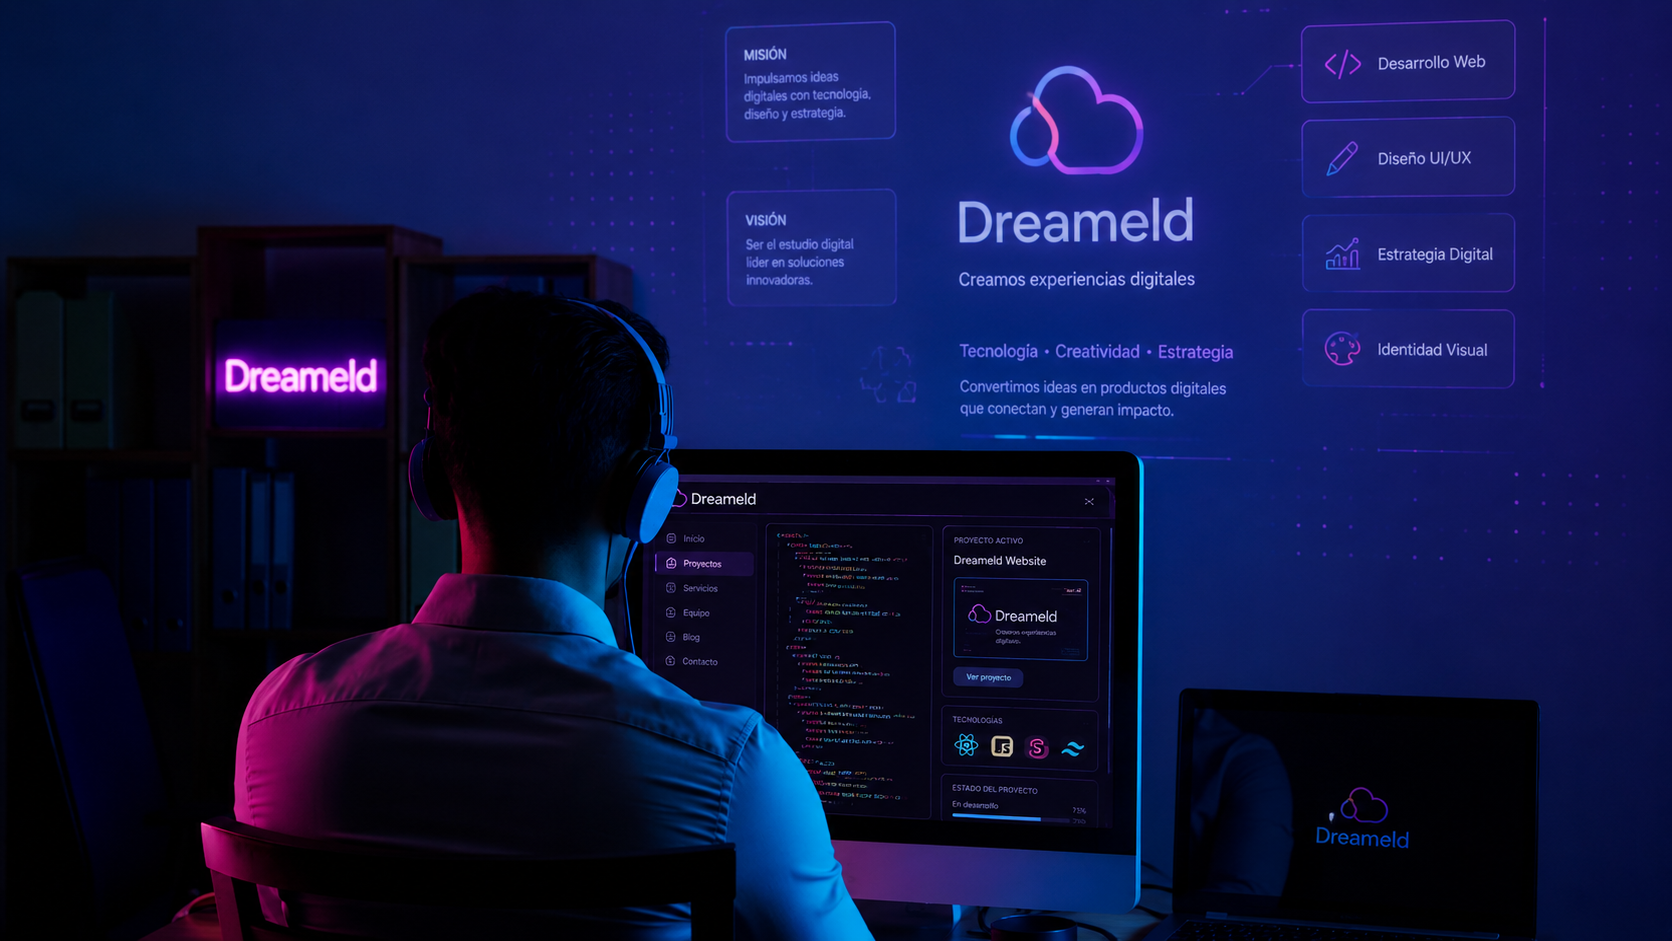
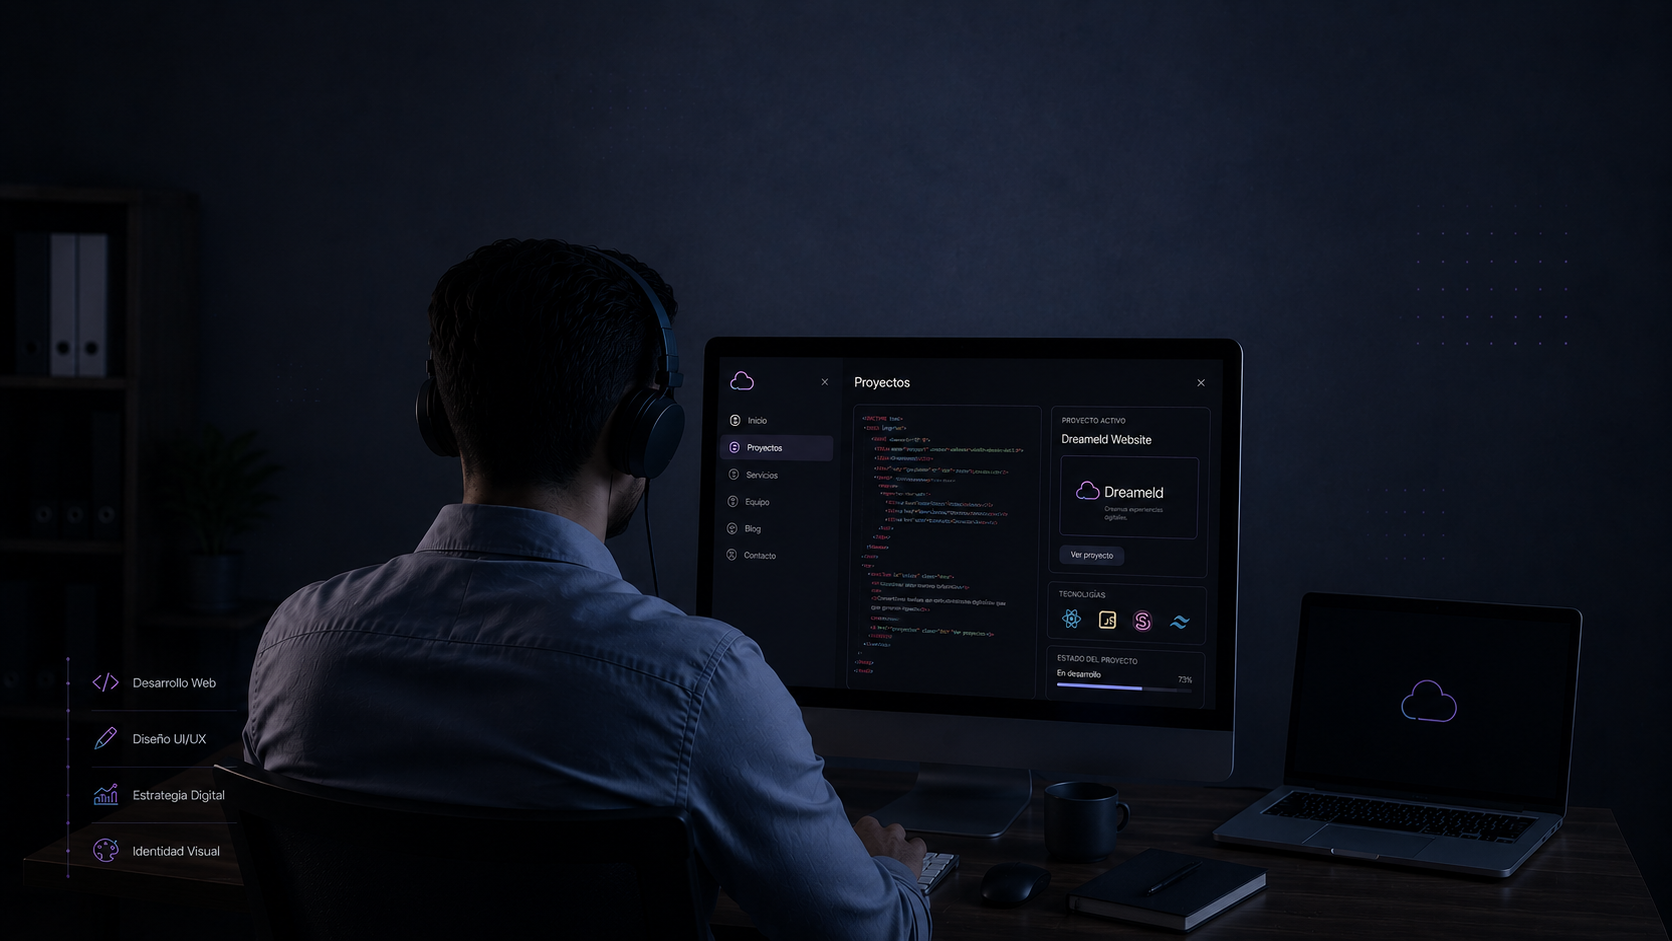
Sección nosotros terminada

diff --git a/src/pages/aboutus.js b/src/pages/aboutus.js
@@ -9,6 +9,7 @@ import Newsletter from "../components/newslatter";
 import Footer from "../components/footer";
 import Switcher from "../components/switcher";
 import Metricas from "../components/Metricas"; // 
+import { FiZap, FiShield, FiMessageSquare, FiRefreshCw } from 'react-icons/fi';
 
 import { serviceData, pilaresData, teamData } from "../data/data";
 import { AiOutlineCheckCircle, MdMailOutline, FiHexagon, FiFacebook, FiInstagram, FiLinkedin, AiOutlineQuestionCircle } from '../assets/icons/vander'
@@ -144,7 +145,7 @@ export default function AboutUs() {
                                         }}
                                     >
                                         <MdMailOutline className="me-2 text-white" />
-                                        Habla con un Ingeniero
+                                        Platica con un experto
                                     </Link>
                                 </div>
                             </div>
@@ -188,6 +189,7 @@ export default function AboutUs() {
     })}
 </div>
 </div>
+{/* Sección del mapa documentado
             <WorldMap />
             
 <div className="container relative md:mt-24 mt-16 mx-auto">
@@ -210,8 +212,95 @@ export default function AboutUs() {
         </div>
     </div>
 </div>
+*/}
+    <div className="py-12 my-10">
+    <div className="grid md:grid-cols-4 sm:grid-cols-2 grid-cols-1 gap-8 max-w-6xl mx-auto px-4">
+        
+        {/* Bloque 1: Uptime */}
+        <div 
+            className="text-center flex flex-col items-center p-6 rounded-xl transition-all duration-300"
+            style={{ transform: 'translateY(0px)', boxShadow: 'none' }}
+            onMouseEnter={(e) => {
+                e.currentTarget.style.transform = 'translateY(-8px)';
+                e.currentTarget.style.boxShadow = '0 10px 25px -5px rgba(0, 0, 0, 0.05)';
+            }}
+            onMouseLeave={(e) => {
+                e.currentTarget.style.transform = 'translateY(0px)';
+                e.currentTarget.style.boxShadow = 'none';
+            }}
+        >
+            <div className="mb-4 rounded-full flex items-center justify-center bg-indigo-50/70" style={{ width: '70px', height: '70px' }}>
+                <FiZap className="text-4xl" style={{ color: '#510bf7' }} />
+            </div>
+            <h3 className="text-3xl font-bold mb-1" style={{ color: '#16082c' }}>99.99%</h3>
+            <p className="text-slate-500 font-medium text-sm">Uptime Garantizado</p>
+        </div>
+
+        {/* Bloque 2: Seguridad (SSL) */}
+        <div 
+            className="text-center flex flex-col items-center p-6 rounded-xl transition-all duration-300"
+            style={{ transform: 'translateY(0px)', boxShadow: 'none' }}
+            onMouseEnter={(e) => {
+                e.currentTarget.style.transform = 'translateY(-8px)';
+                e.currentTarget.style.boxShadow = '0 10px 25px -5px rgba(0, 0, 0, 0.05)';
+            }}
+            onMouseLeave={(e) => {
+                e.currentTarget.style.transform = 'translateY(0px)';
+                e.currentTarget.style.boxShadow = 'none';
+            }}
+        >
+            <div className="mb-4 rounded-full flex items-center justify-center bg-indigo-50/70" style={{ width: '70px', height: '70px' }}>
+                <FiShield className="text-4xl" style={{ color: '#510bf7' }} />
+            </div>
+            <h3 className="text-3xl font-bold mb-1" style={{ color: '#000000' }}>Seguridad</h3>
+            <p className="text-slate-500 font-medium text-sm">Certificado SSL gratuito</p>
+        </div>
+
+        {/* Bloque 3: WhatsApp */}
+        <div 
+            className="text-center flex flex-col items-center p-6 rounded-xl transition-all duration-300"
+            style={{ transform: 'translateY(0px)', boxShadow: 'none' }}
+            onMouseEnter={(e) => {
+                e.currentTarget.style.transform = 'translateY(-8px)';
+                e.currentTarget.style.boxShadow = '0 10px 25px -5px rgba(0, 0, 0, 0.05)';
+            }}
+            onMouseLeave={(e) => {
+                e.currentTarget.style.transform = 'translateY(0px)';
+                e.currentTarget.style.boxShadow = 'none';
+            }}
+        >
+            <div className="mb-4 rounded-full flex items-center justify-center bg-emerald-50/70" style={{ width: '70px', height: '70px' }}>
+                <FiMessageSquare className="text-4xl" style={{ color: '#25D366' }} />
+            </div>
+            <h3 className="text-3xl font-bold mb-1" style={{ color: '#000000' }}>&lt; 15 min</h3>
+            <p className="text-slate-500 font-medium text-sm">Soporte vía WhatsApp</p>
+        </div>
+
+        {/* Bloque 4: Migración */}
+        <div 
+            className="text-center flex flex-col items-center p-6 rounded-xl transition-all duration-300"
+            style={{ transform: 'translateY(0px)', boxShadow: 'none' }}
+            onMouseEnter={(e) => {
+                e.currentTarget.style.transform = 'translateY(-8px)';
+                e.currentTarget.style.boxShadow = '0 10px 25px -5px rgba(0, 0, 0, 0.05)';
+            }}
+            onMouseLeave={(e) => {
+                e.currentTarget.style.transform = 'translateY(0px)';
+                e.currentTarget.style.boxShadow = 'none';
+            }}
+        >
+            <div className="mb-4 rounded-full flex items-center justify-center bg-indigo-50/70" style={{ width: '70px', height: '70px' }}>
+                <FiRefreshCw className="text-4xl" style={{ color: '#510bf7' }} />
+            </div>
+            <h3 className="text-3xl font-bold mb-1" style={{ color: '#000000' }}>Migración $0</h3>
+            <p className="text-slate-500 font-medium text-sm">Migración gratuita</p>
+        </div>
+
+    </div>
+</div>
 
             {/* SECCIÓN TEAM MEMBERS */}
+           {/*
             <div className="container relative md:mt-24 mt-16">
                 <div className="grid grid-cols-1 pb-8 text-center">
                     <h3 className="mb-4 md:text-3xl md:leading-normal text-2xl leading-normal font-medium">Our Team Members</h3>
@@ -239,44 +328,44 @@ export default function AboutUs() {
                     })}
                 </div>
             </div>
-
+*/}
             {/* SECCIÓN PREGUNTAS FRECUENTES */}
             <div className="container relative md:mt-24 mt-16">
                 <div className="grid grid-cols-1 pb-8 text-center">
-                    <h3 className="mb-4 md:text-3xl md:leading-normal text-2xl leading-normal font-medium">Questions & Answers</h3>
-                    <p className="text-slate-400 max-w-xl mx-auto">Create, collaborate, and turn your ideas into incredible products with the definitive platform for digital design.</p>
+                    <h3 className="mb-4 md:text-3xl md:leading-normal text-2xl leading-normal font-medium">Resolvemos tus dudas</h3>
+                    <p className="text-slate-400 max-w-xl mx-auto">Resolvemos tus dudas sin enredos técnicos. Te respondemos de forma simple y clara para que tú solo te preocupes por hacer despegar tu proyecto.</p>
                 </div>
 
                 <div className="grid md:grid-cols-2 grid-cols-1 mt-8 gap-[30px]">
                     <div className="flex">
-                        <AiOutlineQuestionCircle className="h-8 text-sky-500 me-3 w-6" />
+                        <AiOutlineQuestionCircle className="h-8 me-3 w-6" style={{ color: '#510bf7' }} />
                         <div className="flex-1">
-                            <h5 className="mb-2 text-lg font-medium">How our <span className="text-sky-500">Dreameld</span> work ?</h5>
-                            <p className="text-slate-400">Due to its widespread use as filler text for layouts, non-readability is of great importance: human perception is tuned to recognize certain patterns and repetitions in texts.</p>
+                            <h5 className="mb-2 text-lg font-medium">¿Necesito conocimientos previos? </h5>
+                            <p className="text-slate-400">Cero. No necesitas saber de código, servidores ni configuraciones avanzadas para estar con nosotros. <span style={{ color: '#510bf7' }}>Dreameld</span> está pensado para que cualquier persona pueda gestionar su sitio, y para todo lo demás, tienes a nuestro equipo de soporte humano listo para ayudarte en minutos.</p>
                         </div>
                     </div>
 
                     <div className="flex">
-                        <AiOutlineQuestionCircle className="h-8 text-sky-500 me-3 w-6 " />
+                        <AiOutlineQuestionCircle className="h-8 me-3 w-6" style={{ color: '#510bf7' }} />
                         <div className="flex-1">
-                            <h5 className="mb-2 text-lg font-medium"> What is the main process open account ?</h5>
-                            <p className="text-slate-400">If the distribution of letters and 'words' is random, the reader will not be distracted from making a neutral judgement on the visual impact</p>
+                            <h5 className="mb-2 text-lg font-medium"> ¿Qué pasa si tengo una duda técnica específica?</h5>
+                            <p className="text-slate-400">No estás solo. Además del contenido de la academia, tienes nuestro soporte real por <span style={{ color: '#25D366' }}>WhatsApp.</span> Si te atoras en algún paso o algo no queda claro, nuestros ingenieros te ayudarán directamente. Tu éxito es nuestra prioridad.</p>
                         </div>
                     </div>
 
                     <div className="flex">
-                        <AiOutlineQuestionCircle className="h-8 text-sky-500 me-3 w-6" />
+                        <AiOutlineQuestionCircle className="h-8 me-3 w-6" style={{ color: '#510bf7' }} />
                         <div className="flex-1">
-                            <h5 className="mb-2 text-lg font-medium"> How to make unlimited data entry ?</h5>
-                            <p className="text-slate-400">Furthermore, it is advantageous when the dummy text is relatively realistic so that the layout impression of the final publication is not compromised.</p>
+                            <h5 className="mb-2 text-lg font-medium"> ¿Ustedes me ayudan a mudar mi sitio web desde mi hosting actual?</h5>
+                            <p className="text-slate-400">¡Por supuesto! Nosotros nos encargamos de todo el proceso de migración de forma completamente gratuita. Mudamos tus archivos, correos y bases de datos sin que tu sitio sufra caídas ni pierdas información en el camino. Tú solo nos das luz verde y nuestro equipo hace la magia.</p>
                         </div>
                     </div>
 
                     <div className="flex">
-                        <AiOutlineQuestionCircle className="h-8 text-sky-500 me-3 w-6" />
+                        <AiOutlineQuestionCircle className="h-8 me-3 w-6" style={{ color: '#510bf7' }} />
                         <div className="flex-1">
-                            <h5 className="mb-2 text-lg font-medium"> Is <span className="text-sky-500">Dreameld</span> safer to use with my account ?</h5>
-                            <p className="text-slate-400">The most well-known dummy text is the 'Lorem Ipsum', which is said to have originated in the 16th century. Lorem Ipsum is composed in a pseudo-Latin language which more or less corresponds to 'proper' Latin.</p>
+                            <h5 className="mb-2 text-lg font-medium"> ¿Puedo cambiarme a un plan más grande si mi negocio empieza a recibir más visitas? </h5>
+                            <p className="text-slate-400">Claro que sí, el cambio es inmediato y sin complicaciones. Si lanzas una campaña o tu tráfico aumenta de golpe, puedes subir de plan en minutos para darle más potencia a tu sitio, sin contratos forzosos ni procesos lentos. Tu hosting crece al ritmo de tu negocio.</p>
                         </div>
                     </div>
                 </div>

diff --git a/src/components/navbar.js b/src/components/navbar.js
@@ -78,22 +78,24 @@ export default function Navbar({ navClass, ulClass, navLight }) {
         <nav id="topnav" className={`${scroll ? 'nav-sticky' : ''} ${navClass}`}>
             <div className="container relative">
                 
-                {/* === LOGO DINÁMICO DE DREAMELD (CAMBIA EN MOTO OSCURO) === */}
+                {/* === LOGO DINÁMICO DE DREAMELD (CAMBIA EN MODO OSCURO) === */}
 <Link className="logo flex items-center" to="/index" style={{ height: 'auto', padding: '10px 0' }}>
     {/* LOGO VERSIÓN DÍA: Se muestra normalmente, se oculta en dark mode */}
-    <img 
-        src="/Dream1.png" 
-        className="inline-block dark:hidden"
-        alt="Dreameld" 
-        style={{ 
-            height: '40px', 
-            width: 'auto', 
-            maxHeight: 'none', 
-            maxWidth: '220px',
-            display: 'block',
-            objectFit: 'contain'
-        }} 
-    />
+   <img 
+    src="/Dream1.png" 
+    className="inline-block dark:hidden"
+    alt="Dreameld" 
+    style={{ 
+        height: '40px', 
+        width: 'auto', 
+        maxHeight: 'none', 
+        maxWidth: '220px',
+        display: 'block',
+        objectFit: 'contain',
+        // ¡Aquí está la magia interactiva!
+        filter: typeof scroll !== 'undefined' && scroll ? 'none' : 'brightness(0) invert(1)'
+    }} 
+/>
     {/* LOGO VERSIÓN NOCHE: Se oculta normalmente, aparece solo en dark mode */}
     <img 
         src="/Dreameld_3A.png" 

diff --git a/src/data/data.js b/src/data/data.js
@@ -328,7 +328,7 @@ export const serviceData = [
     },
    
 ]
-//Tarjetas de Mision, Vision, Transparencia y Calidad Obsesiva
+//Tarjetas de Mision, Vision, Transparencia y Excelencia
 export const pilaresData = [
     {
         icon: LuUsers, 
@@ -338,16 +338,16 @@ export const pilaresData = [
     {
         icon: VscServer, 
         title: 'Visión',
-        desc: 'Convertirnos en el aliado tecnológico definitivo de Latinoamérica, donde la estabilidad de tu plataforma nunca vuelva a depender de una respuesta automatizada.'
+        desc: 'Convertirnos en el aliado tecnológico definitivo de tu negocio, donde la estabilidad de tu plataforma nunca vuelva a depender de una respuesta automatizada.'
     },
     {
         icon: MdOutlineMarkEmailRead, 
         title: 'Transparencia',
-        desc: 'Sin letras chiquitas ni caídas sorpresa. Te hablamos de ingeniero a ingeniero, asumiendo la responsabilidad del uptime de tu negocio con honestidad total.'
+        desc: 'Sin letras chiquitas ni caídas sorpresa. Te hablamos con total claridad y sin rodeos, asumiendo la responsabilidad del uptime de tu negocio con honestidad total.'
     },
     {
         icon: TbCloudHeart, 
-        title: 'Calidad Obsesiva',
+        title: 'Excelencia',
         desc: 'No nos conformamos con que tu sitio "cargue". Optimizamos código, pulimos servidores y cableamos arquitecturas pensadas para escalar de forma masiva.'
     },
 ];

diff --git a/src/assets/css/tailwind.css b/src/assets/css/tailwind.css
@@ -7,6 +7,7 @@
    Created: March 2022
    File: Main Css File
 */
+
 @import url("https://fonts.googleapis.com/css2?family=Inter&family=Outfit:wght@400;500;600;700&display=swap");
 /* ! tailwindcss v3.3.3 | MIT License | https://tailwindcss.com
 */
@@ -4573,3 +4574,4 @@ html[dir=rtl] .tns-visually-hidden {
     width: 75rem !important;
   }
 }
+